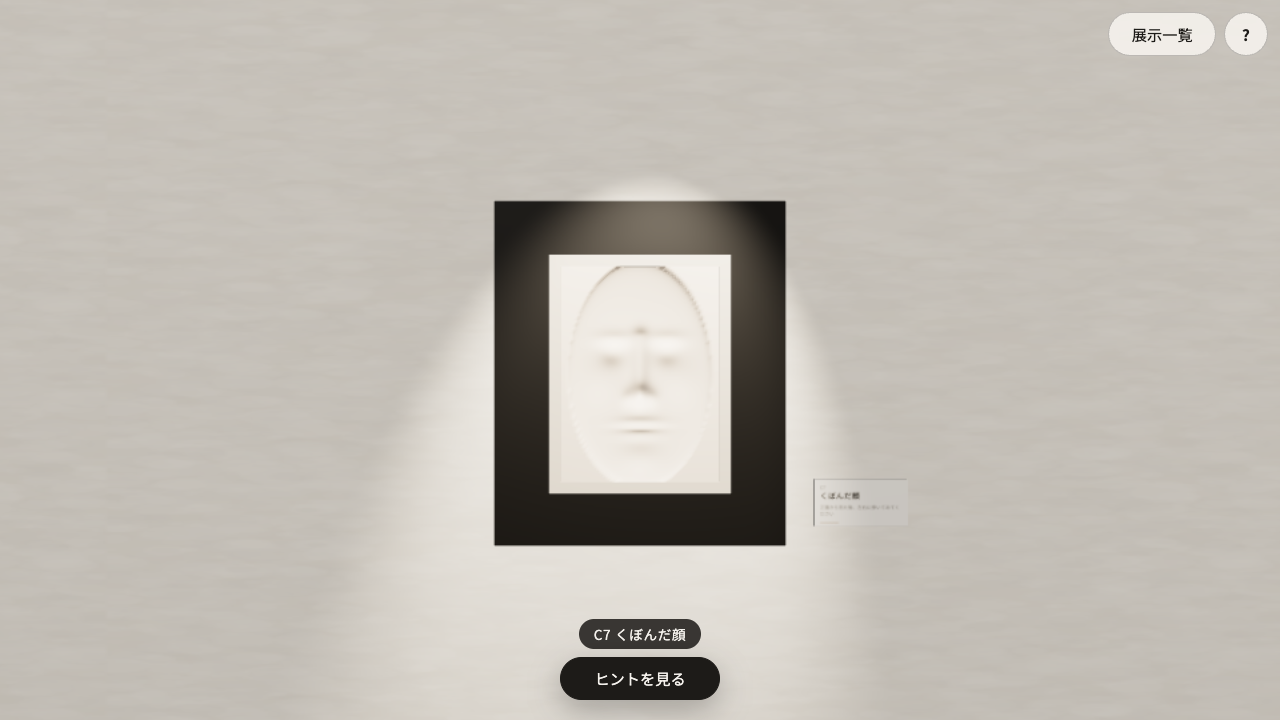
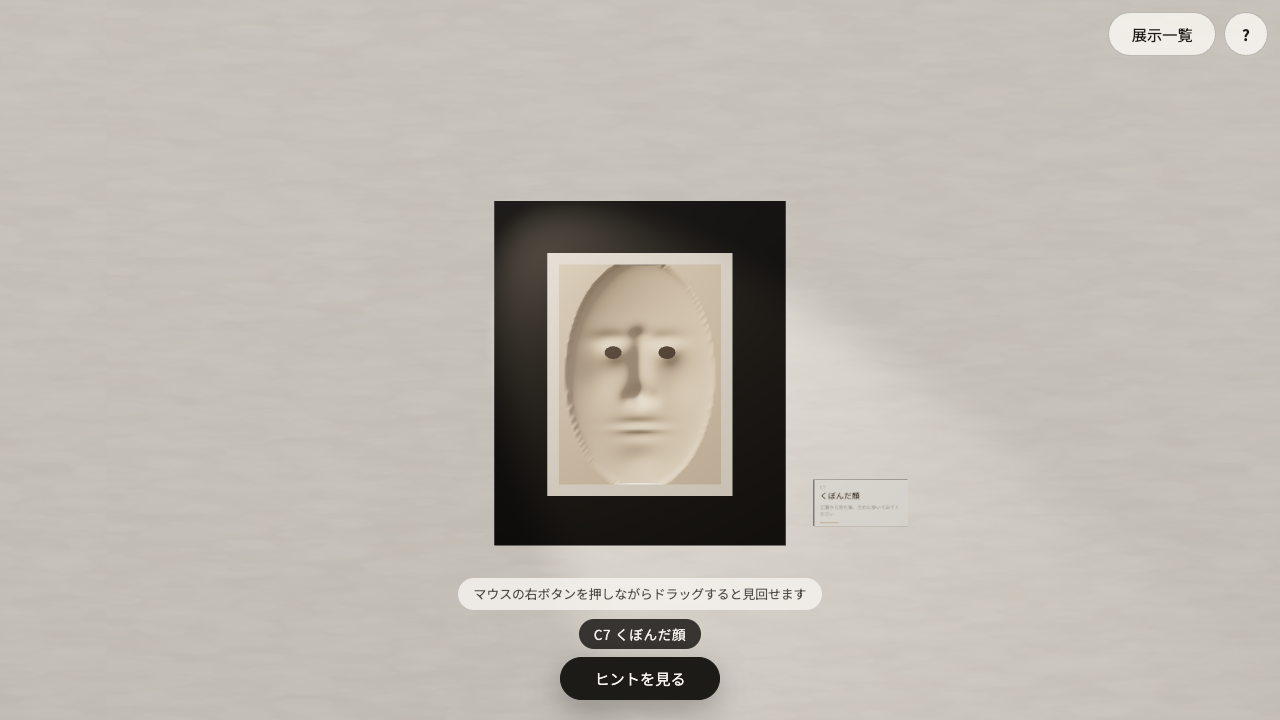
C7: くぼんだ顔の陰影が読めるようにする
白に近い肌色に強いスポットを正面から当てていたため、光が飽和して起伏が
平らに見え、凹凸の手がかりが消えていた。

- 肌の反射率を中間調の石膏くらいに落とす(0xe7d9cb → 0xb8a894)
- 環境光の写り込みを抑える(envMapIntensity 0.15、roughness 0.9)
- スポットを 26 → 12 に落とし、左斜め上から鼻筋と眼窩を横切る向きにする
- 起伏を 0.13 → 0.16 に深くする
- 眼窩に暗い虹彩を置く。顔として読み取りやすくなり、「顔は凸である」と
  いう前提が働いて錯視が効きやすくなる

推奨視点のスクリーンショットを撮り直した。

Changed region(s): [[0.375, 0.2444, 0.625, 0.7028], [0.3125, 0.4278, 0.4688, 1.0], [0.5625, 0.7944, 0.6562, 0.8556]]

diff --git a/src/exhibits/classic/HollowFace.ts b/src/exhibits/classic/HollowFace.ts
@@ -7,7 +7,7 @@ import { CompositeHintEffect } from '../HintEffect';
 import { CameraOrbit } from '../effects/CameraOrbit';
 import { SectionCut } from '../effects/SectionCut';
 
-export const FACE = { width: 0.56, height: 0.76, relief: 0.13, segments: 72 };
+export const FACE = { width: 0.56, height: 0.76, relief: 0.16, segments: 72 };
 
 /** 顔のレリーフ。sign = +1 で凸(通常)、-1 で凹(くぼんだ顔) */
 export function createFaceGeometry(sign: 1 | -1): THREE.BufferGeometry {
@@ -40,9 +40,12 @@ export class HollowFace extends BaseExhibit {
     panel.position.set(0, 1.55, 0.03);
     this.object.add(panel);
 
+    // 陰影の勾配が読めるよう、反射率は中間調の石膏くらいに抑える。
+    // 白に近いと光が飽和して起伏が平らに見え、凹凸の手がかりが消える
     const skin = new THREE.MeshStandardMaterial({
-      color: 0xe7d9cb,
-      roughness: 0.75,
+      color: 0xb8a894,
+      roughness: 0.9,
+      envMapIntensity: 0.15,
       side: THREE.DoubleSide,
     });
     const hollow = new THREE.Mesh(createFaceGeometry(-1), skin);
@@ -69,9 +72,26 @@ export class HollowFace extends BaseExhibit {
       bar(bw, fh, fw / 2 + bw / 2, 0),
     ];
 
-    // 上からのスポット(通常の展示照明)。凹面なので陰影が反転し、脳がそれを凸として解釈する
-    const spot = new THREE.SpotLight(0xfff1dc, 26, 6, Math.PI / 8, 0.5, 1.6);
-    spot.position.set(0.25, 3.2, 1.2);
+    // 目: 眼窩の底に暗い円盤を置く。顔として読み取りやすくなり、
+    // 「顔は凸である」という前提が強く働いて錯視が効きやすくなる
+    const irisMat = new THREE.MeshStandardMaterial({ color: 0x4a4038, roughness: 0.55 });
+    const eyeU = 0.34;
+    const eyeV = 0.2;
+    const eyeZ = 0.06 + depth - faceHeight(eyeU, eyeV) * FACE.relief + 0.004;
+    const eyes: THREE.Mesh[] = [];
+    for (const side of [-1, 1]) {
+      const eye = new THREE.Mesh(new THREE.CircleGeometry(0.03, 24), irisMat);
+      eye.scale.y = 0.75;
+      eye.position.set(side * eyeU * (FACE.width / 2), 1.55 + eyeV * (FACE.height / 2), eyeZ);
+      this.object.add(eye);
+      eyes.push(eye);
+    }
+
+    // 左斜め上からのスポット。正面から当てると起伏が平らに見えるので、
+    // 鼻筋と眼窩を横切る向きに落として陰影をはっきりさせる。
+    // 凹面なのでその陰影は反転しており、脳はそれを凸として解釈する
+    const spot = new THREE.SpotLight(0xfff1dc, 12, 6, Math.PI / 9, 0.35, 1.6);
+    spot.position.set(-1.1, 2.9, 0.9);
     spot.target = hollow;
     this.object.add(spot);
 
@@ -103,7 +123,7 @@ export class HollowFace extends BaseExhibit {
             radiusScale: 0.75,
             durationMs: 2200,
           }),
-          new SectionCut([hollow, ...bars], {
+          new SectionCut([hollow, ...bars, ...eyes], {
             normal,
             start: startPt,
             end: center.clone(),
